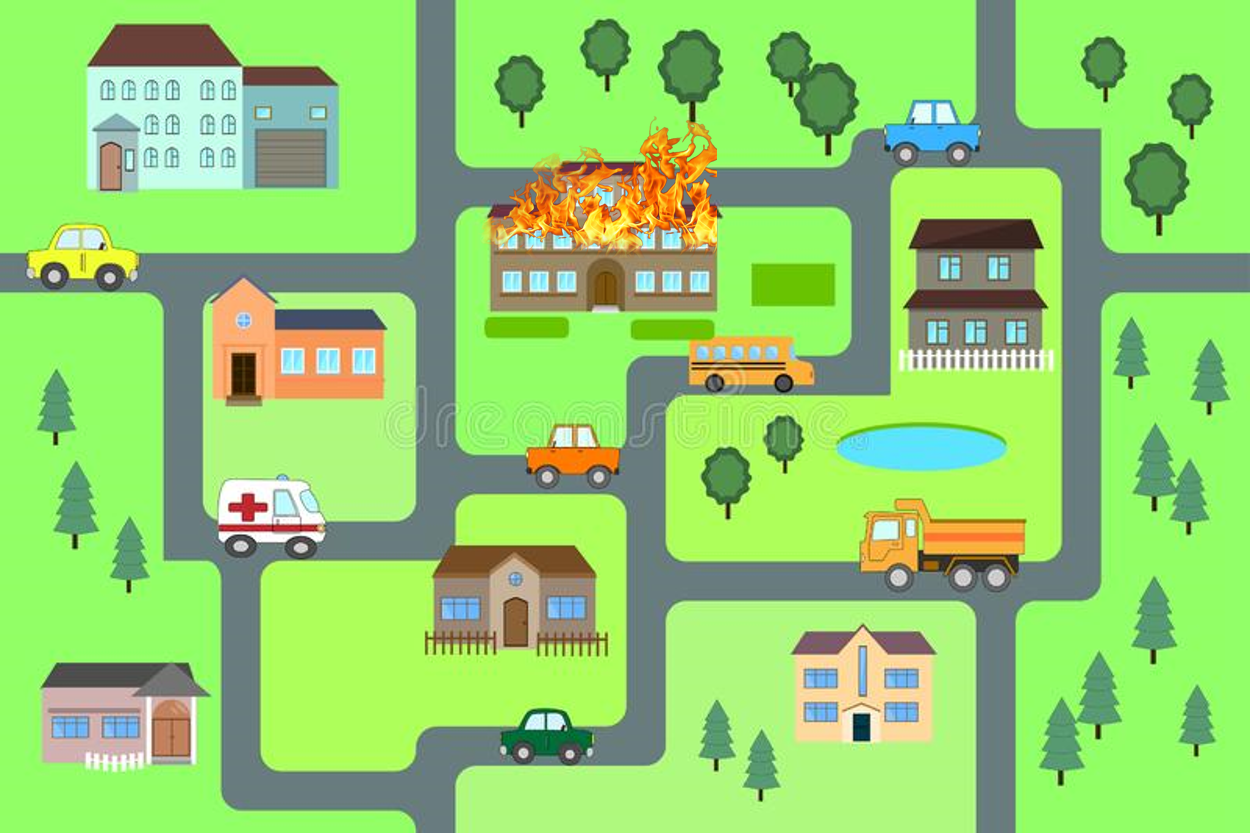
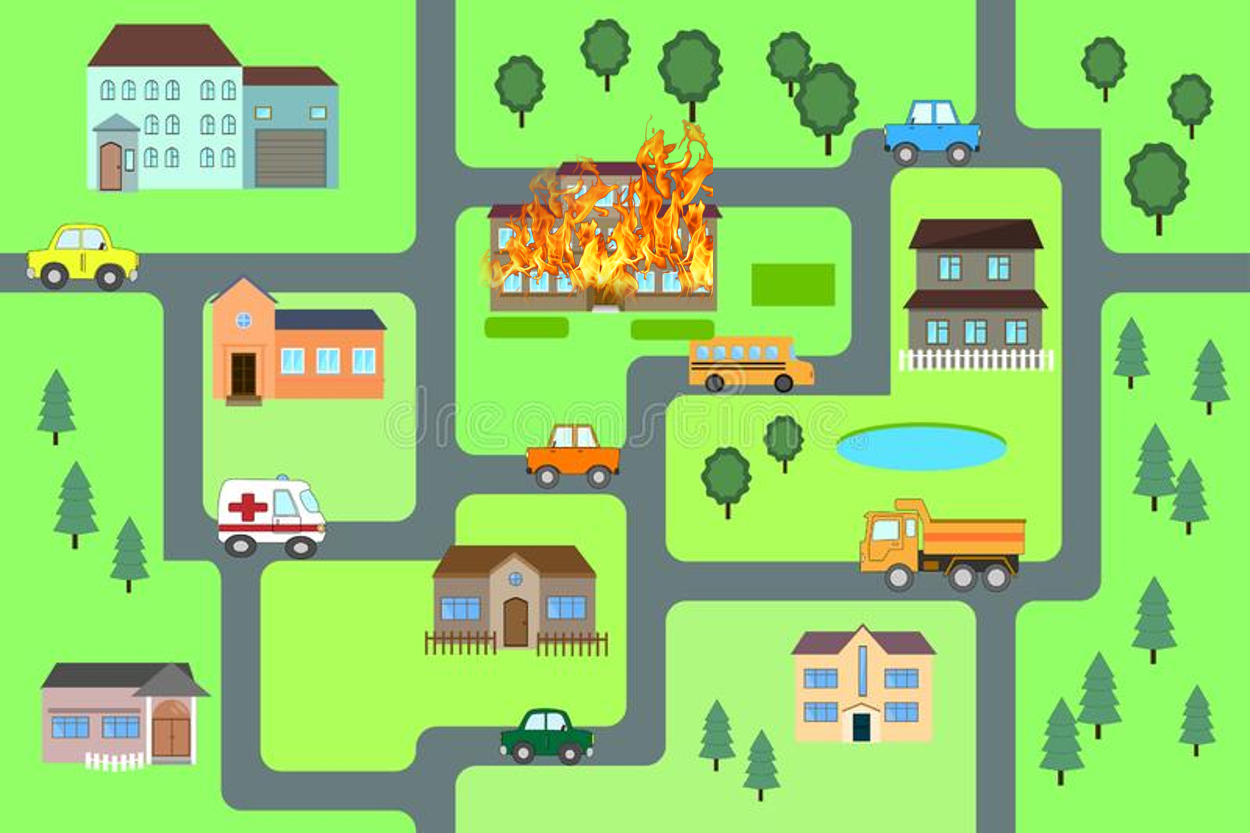
Imagens

Changed region(s): [[0.3744, 0.1248, 0.5928, 0.3745]]

diff --git a/principal.py b/principal.py
@@ -17,38 +17,41 @@ def Principal(window):
 
     #Criando o fundo e os personagens
     jogador_WIDTH = 50
-    jogador_HEIGHT = 50
+    jogador_HEIGHT = 70
     font = pygame.font.SysFont(None, 48)
 
-    background = pygame.image.load('imagens/Cidadinha.jpg').convert()
+    quadro_img = pygame.image.load('imagens/o_quadro.png').convert_alpha()
+    quadro_img = pygame.transform.scale(quadro_img, (40, 30))
+
+    background = pygame.image.load('imagens/cidadinha_fogo.png').convert()
     background = pygame.transform.scale(background, (WIDTH, HEIGHT))
 
-    verde_img = pygame.image.load('imagens/Among_Us_Verde.png').convert_alpha()
+    verde_img = pygame.image.load('imagens/verde_bombeiro_esq.png').convert_alpha()
     verde_img = pygame.transform.scale(verde_img, (jogador_WIDTH, jogador_HEIGHT))
 
-    vermelho_img = pygame.image.load('imagens/Among_Us_Vermelho.png').convert_alpha()
+    vermelho_img = pygame.image.load('imagens/vermelho_trabalhador_dir.png').convert_alpha()
     vermelho_img = pygame.transform.scale(vermelho_img, (jogador_WIDTH, jogador_HEIGHT))
 
-    amarelo_img = pygame.image.load('imagens/Among_Us_Amarelo.png').convert_alpha()
+    amarelo_img = pygame.image.load('imagens/amarelo_capitaomostarda_dir.png').convert_alpha()
     amarelo_img = pygame.transform.scale(amarelo_img, (jogador_WIDTH, jogador_HEIGHT))
 
     preto_img = pygame.image.load('imagens/morto.png').convert_alpha()
-    preto_img = pygame.transform.scale(preto_img, (jogador_WIDTH, jogador_HEIGHT))
+    preto_img = pygame.transform.scale(preto_img, (jogador_WIDTH, jogador_WIDTH))
 
-    rosa_img = pygame.image.load('imagens/Among_Us_Rosa.png').convert_alpha()
+    rosa_img = pygame.image.load('imagens/rosa_policial_esq.png').convert_alpha()
     rosa_img = pygame.transform.scale(rosa_img, (jogador_WIDTH, jogador_HEIGHT))
 
-    branco_img = pygame.image.load('imagens/Among_Us_Branco.png').convert_alpha()
+    branco_img = pygame.image.load('imagens/branco_medico_esq.png').convert_alpha()
     branco_img = pygame.transform.scale(branco_img, (jogador_WIDTH, jogador_HEIGHT))
 
-    roxo_img = pygame.image.load('imagens/Among_Us_Roxo.png').convert_alpha()
+    roxo_img = pygame.image.load('imagens/roxo_piloto_dir.png').convert_alpha()
     roxo_img = pygame.transform.scale(roxo_img, (jogador_WIDTH, jogador_HEIGHT))
 
-    laranja_img = pygame.image.load('imagens/Among_Us_Laranja.png').convert_alpha()
+    laranja_img = pygame.image.load('imagens/laranja_astronauta_dir.png').convert_alpha()
     laranja_img = pygame.transform.scale(laranja_img, (jogador_WIDTH, jogador_HEIGHT))
 
-    azul_img = pygame.image.load('imagens/Among_Us_Azul.png').convert_alpha()
-    azul_img = pygame.transform.scale(azul_img, (jogador_WIDTH, jogador_HEIGHT))
+    azul_img = pygame.image.load('imagens/azul_frio_esq.png').convert_alpha()
+    azul_img = pygame.transform.scale(azul_img, (jogador_WIDTH, jogador_HEIGHT - 10))
 
 
 
@@ -79,6 +82,7 @@ def Principal(window):
     ob_roxo = pygame.sprite.Group()
     ob_laranja = pygame.sprite.Group()
     ob_azul = pygame.sprite.Group()
+    ob_quadro = pygame.sprite.Group()
 
 
     # Criando o jogador
@@ -108,6 +112,11 @@ def Principal(window):
     all_sprites.add(personagem_preto)
     ob_preto.add(personagem_preto)
     text_preto = ''
+
+    #Criando o quadro
+    o_quadro = Quadro(quadro_img)
+    all_sprites.add(o_quadro)
+    ob_quadro.add(o_quadro)
 
     #Criando o personagem rosa
     personagem_rosa = Rosa(rosa_img)
@@ -274,14 +283,14 @@ def Principal(window):
         #superficie = font.render(text, True, blue)
         #tempo = pygame.time.get_ticks()
         superficie_preto = font.render(text_preto, True, black2)
-        superficie_aramelo = font.render(text_aramelo, True, yellow)
-        superficie_azul = font.render(text_azul, True, blue)
-        superficie_branco = font.render(text_branco, True, white2)
+        superficie_aramelo = font.render(text_aramelo, True, yellow, black)
+        superficie_azul = font.render(text_azul, True, blue, black)
+        superficie_branco = font.render(text_branco, True, white2, black)
         superficie_verde = font.render(text_verde, True, green, black)
-        superficie_laranja = font.render(text_laranja, True, orange)
-        superficie_rosa = font.render(text_rosa, True, pink)
-        superficie_roxo = font.render(text_roxo, True, purple)
-        superficie_vermelho = font.render(text_vermelho, True, red)
+        superficie_laranja = font.render(text_laranja, True, orange, black)
+        superficie_rosa = font.render(text_rosa, True, pink, black)
+        superficie_roxo = font.render(text_roxo, True, purple, black)
+        superficie_vermelho = font.render(text_vermelho, True, red, black)
 
         #Para o verde
         if tempo_principal - tempo_verde < 500:
@@ -321,11 +330,11 @@ def Principal(window):
             window.blit(superficie_azul, (0,0))
 
         #Para o tempo
-        if tempo_principal <= 40000:
+        if tempo_principal <= 4000:
             window.blit(superficie_cont,(WIDTH - 50, 20))
 
         #Para o final
-        if tempo_principal > 400:
+        if tempo_principal > 20000:
             Final(window)
 
 

diff --git a/classes.py b/classes.py
@@ -10,11 +10,11 @@ class Jogador(pygame.sprite.Sprite):
 
         #Criando variáveis para o jogador olhar para a esquerda e a direita
         jogador_WIDTH = 50
-        jogador_HEIGHT = 50
+        jogador_HEIGHT = 70
         self.jogador_img_esq = pygame.image.load('imagens/Among_Us_detetive_esq.png').convert_alpha()
-        self.jogador_img_esq = pygame.transform.scale(self.jogador_img_esq, (jogador_WIDTH, jogador_HEIGHT + 20))
+        self.jogador_img_esq = pygame.transform.scale(self.jogador_img_esq, (jogador_WIDTH, jogador_HEIGHT))
         self.jogador_img_dir = pygame.image.load('imagens/Among_Us_detetive.png').convert_alpha()
-        self.jogador_img_dir = pygame.transform.scale(self.jogador_img_dir, (jogador_WIDTH, jogador_HEIGHT + 20))
+        self.jogador_img_dir = pygame.transform.scale(self.jogador_img_dir, (jogador_WIDTH, jogador_HEIGHT))
 
         self.image = self.jogador_img_dir
         self.rect = self.image.get_rect()
@@ -37,7 +37,7 @@ class Jogador(pygame.sprite.Sprite):
             self.rect.top = 0
         if self.rect.bottom > HEIGHT:
             self.rect.bottom = HEIGHT
-           
+
 class Verde(pygame.sprite.Sprite):
     def __init__(self, img):
         pygame.sprite.Sprite.__init__(self)
@@ -71,8 +71,17 @@ class Preto(pygame.sprite.Sprite):
 
         self.image = img
         self.rect = self.image.get_rect()
-        self.rect.centerx = WIDTH - 300
-        self.rect.centery = HEIGHT - 500
+        self.rect.centerx = WIDTH - 390
+        self.rect.centery = 230
+
+class Quadro(pygame.sprite.Sprite):
+    def __init__(self, img):
+        pygame.sprite.Sprite.__init__(self)
+
+        self.image = img
+        self.rect = self.image.get_rect()
+        self.rect.centerx = WIDTH - 450
+        self.rect.centery = 230
 
 class Rosa(pygame.sprite.Sprite):
     def __init__(self, img):

diff --git a/final.py b/final.py
@@ -27,6 +27,9 @@ def Final(window):
     jogador_img = pygame.image.load('imagens/Among_Us_detetive.png').convert_alpha()
     jogador_img = pygame.transform.scale(jogador_img, (jogador_WIDTH2, jogador_HEIGHT2 + 16))
 
+   # jogador_img = pygame.image.load('imagens/o_quadro.png').convert_alpha()
+    #jogador_img = pygame.transform.scale(jogador_img, (jogador_WIDTH2, jogador_HEIGHT2 + 16))
+
     verde_img = pygame.image.load('imagens/Among_Us_Verde_esq.png').convert_alpha()
     verde_img = pygame.transform.scale(verde_img, (jogador_WIDTH2, jogador_HEIGHT2))
 

diff --git a/inicio.py b/inicio.py
@@ -17,7 +17,7 @@ text = ''
 mensagem = ''
 
 #Criando fundo
-fundo = pygame.image.load('imagens/Museu.jpg').convert()
+fundo = pygame.image.load('imagens/museu_fogo.png').convert()
 fundo = pygame.transform.scale(fundo, (WIDTH, HEIGHT))
 
 #Criando a fonte para o texto
